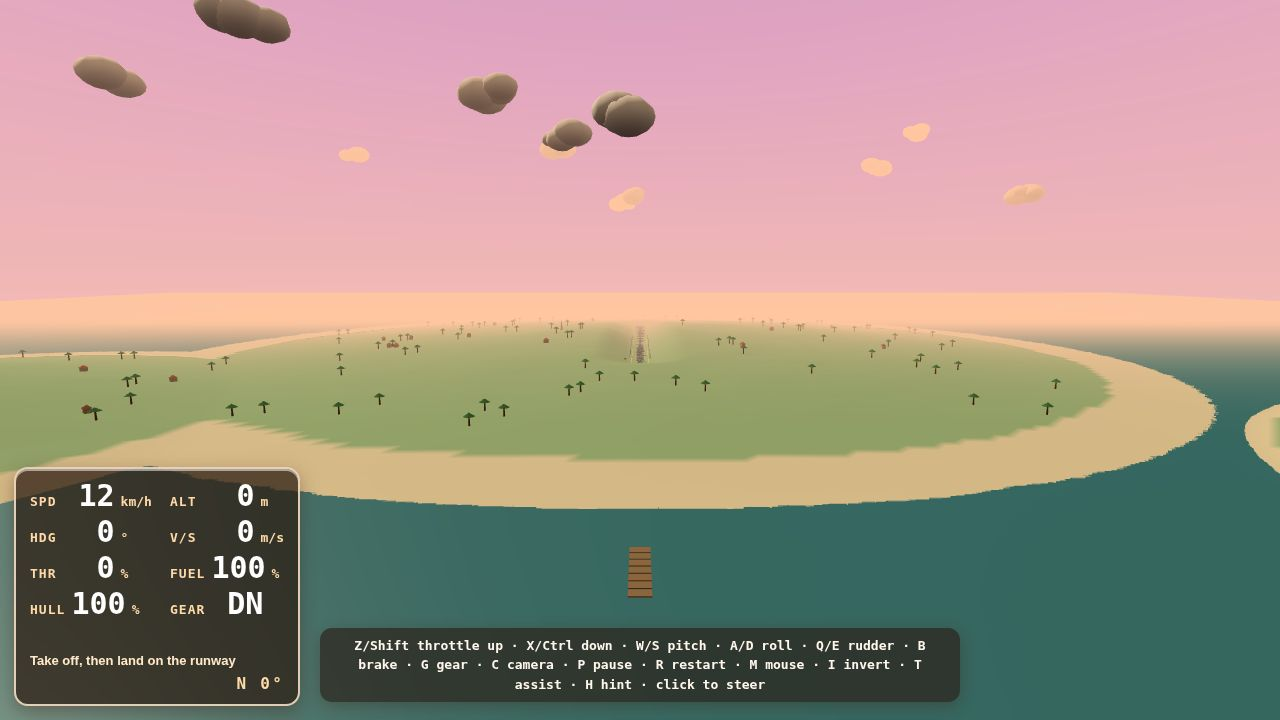
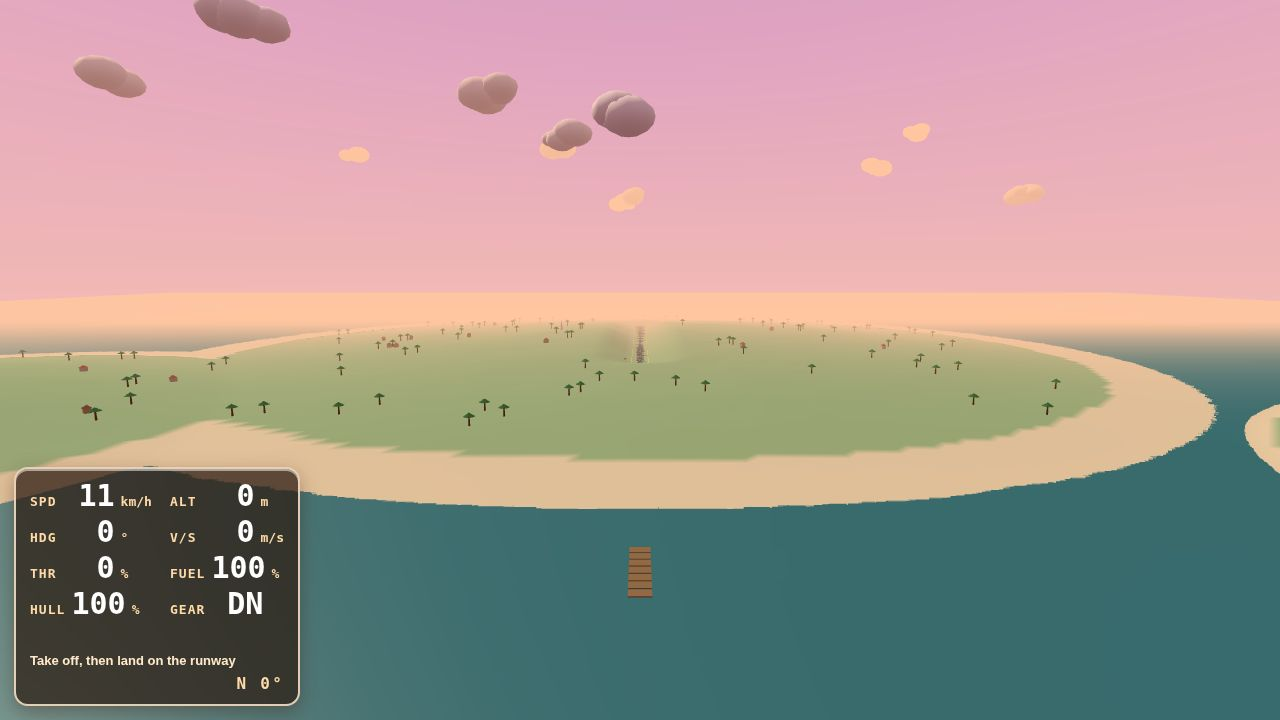
Small fixes: bright pink-white emissive clouds, remove dark runway posts, hint auto-hide/no-shot-scene

diff --git a/game/src/main.js b/game/src/main.js
@@ -21,6 +21,7 @@ scene.add(camera);
 const seedParam = new URLSearchParams(location.search).get("seed");
 const seed = Number(seedParam) || 7;
 const shotMode = new URLSearchParams(location.search).get("shot") || "play";
+const isShotScene = new URLSearchParams(location.search).has("shot");
 const world = assembleScene(THREE, scene, document, seed);
 const cockpit = buildCockpit(THREE, document, camera);
 const instruments = createInstruments(document);
@@ -35,7 +36,7 @@ const hintEl = document.createElement("div");
 hintEl.id = "controls-hint";
 hintEl.innerHTML =
   "Z/Shift throttle up &middot; X/Ctrl down &middot; W/S pitch &middot; A/D roll &middot; Q/E rudder &middot; B brake &middot; G gear &middot; C camera &middot; P pause &middot; R restart &middot; M mouse &middot; I invert &middot; T assist &middot; H hint &middot; click to steer";
-document.body.appendChild(hintEl);
+if (!isShotScene) document.body.appendChild(hintEl);
 
 function resize() {
   camera.aspect = window.innerWidth / window.innerHeight;
@@ -45,6 +46,7 @@ function resize() {
 window.addEventListener("resize", resize);
 
 const clock = new THREE.Clock();
+const startedAt = performance.now();
 let frames = 0;
 let elapsed = 0;
 let propAngle = 0;
@@ -91,7 +93,8 @@ function tick() {
     elapsed += dt;
   }
 
-  hintEl.classList.toggle("show", paused || hintForced || (!paused && elapsed < 10));
+  const showHint = !isShotScene && (paused || hintForced || (!paused && performance.now() - startedAt < 10000));
+  hintEl.classList.toggle("show", showHint);
 
   const agl = state.y - 1.6 - groundHeightAt(state.x, state.z);
   const air = world.aircraft;
@@ -151,7 +154,7 @@ function tick() {
   }
   if (paused) hud.el.classList.add("paused"); else hud.el.classList.remove("paused");
 
-  window.__DEBUG__ = { controls: c, state: state, cameraMode: cameraMode, cockpit: cockpitMode, exteriorVisible: air.visible, near: camera.near, fov: camera.fov, restarts: restarts, keys: Array.from(input.keys), agl: agl, calls: renderer.info.render.calls };
+  window.__DEBUG__ = { controls: c, state: state, cameraMode: cameraMode, cockpit: cockpitMode, exteriorVisible: air.visible, near: camera.near, fov: camera.fov, hintShown: showHint, cloud: world.sky.cloudMat.color.getHex(), cloudEmissive: world.sky.cloudMat.emissiveIntensity, hemiGround: world.sky.hemi.groundColor.getHex(), lampPosts: !!scene.getObjectByName("lamp-posts"), restarts: restarts, keys: Array.from(input.keys), agl: agl, calls: renderer.info.render.calls };
 
   renderer.render(scene, camera);
   frames += 1;

diff --git a/game/src/world/sky.js b/game/src/world/sky.js
@@ -23,7 +23,8 @@ export function buildSky(THREE, scene, doc) {
   dome.name = "sky-dome";
   scene.add(dome);
 
-  scene.add(new THREE.HemisphereLight(0xffe0c0, 0x5a4a48, 0.85));
+  const hemi = new THREE.HemisphereLight(0xffd9e6, 0xb98a86, 1.15);
+  scene.add(hemi);
   const sun = new THREE.DirectionalLight(0xfff0d0, 2.1);
   sun.position.set(300, 380, 200);
   sun.castShadow = true;
@@ -35,7 +36,7 @@ export function buildSky(THREE, scene, doc) {
   scene.add(sun);
   scene.add(sun.target);
 
-  const cloudMat = new THREE.MeshStandardMaterial({ color: 0xfff4ea, roughness: 1, metalness: 0 });
+  const cloudMat = new THREE.MeshStandardMaterial({ color: 0xfff2f4, roughness: 1, metalness: 0, emissive: 0x5a2f42, emissiveIntensity: 0.5 });
   const puff = new THREE.SphereGeometry(1, 8, 8);
   const clusters = 26;
   const perCluster = 5;
@@ -60,5 +61,5 @@ export function buildSky(THREE, scene, doc) {
   clouds.instanceMatrix.needsUpdate = true;
   clouds.name = "clouds";
   scene.add(clouds);
-  return { sun, clouds };
+  return { sun, clouds, cloudMat, hemi };
 }

diff --git a/game/src/world/props.js b/game/src/world/props.js
@@ -120,20 +120,6 @@ export function buildProps(THREE, mat, random) {
     group.add(sp);
   }
 
-  // Lamp posts along the home runway edges.
-  const postGeo = new THREE.CylinderGeometry(0.2, 0.2, 7, 6);
-  const posts = new THREE.InstancedMesh(postGeo, mat(0x4a4a4a), 12);
-  for (let i = 0; i < 12; i += 1) {
-    const side = i < 6 ? -1 : 1;
-    dummy.position.set(side * 12, 12 + 3.5, -60 + (i % 6) * 42);
-    dummy.rotation.set(0, 0, 0);
-    dummy.scale.set(1, 1, 1);
-    dummy.updateMatrix();
-    posts.setMatrixAt(i, dummy.matrix);
-  }
-  posts.instanceMatrix.needsUpdate = true;
-  group.add(posts);
-
   // A small pier reaching into the sea from the home island's south shore.
   const planks = new THREE.InstancedMesh(new THREE.BoxGeometry(9, 0.4, 5), mat(0x9c7a52), 7);
   for (let i = 0; i < 7; i += 1) {

diff --git a/game/src/render/scene.js b/game/src/render/scene.js
@@ -35,7 +35,7 @@ export function assembleScene(THREE, scene, doc, seed) {
   const matFactory = (color) =>
     new THREE.MeshStandardMaterial({ color, roughness: 0.86, metalness: 0.02, bumpMap: bump, bumpScale: 0.02 });
 
-  buildSky(THREE, scene, doc);
+  const sky = buildSky(THREE, scene, doc);
   const terrain = buildTerrainMesh(THREE);
   scene.add(terrain);
   scene.add(buildWater(THREE, matFactory));
@@ -47,6 +47,7 @@ export function assembleScene(THREE, scene, doc, seed) {
 
   return {
     terrain,
+    sky,
     aircraft: aircraft.group,
     prop: aircraft.prop,
     wheels: aircraft.wheels,
